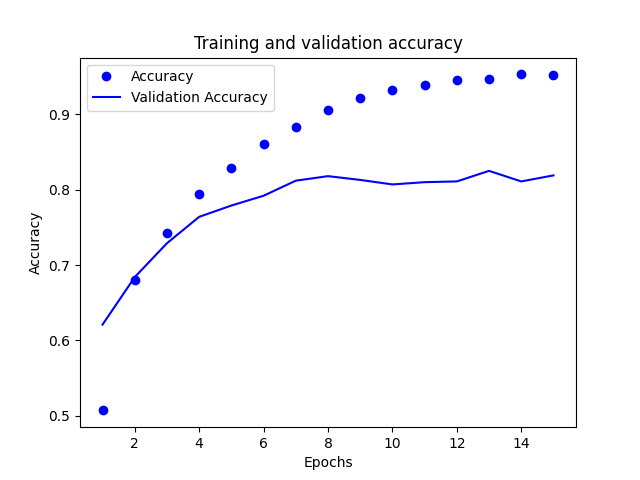
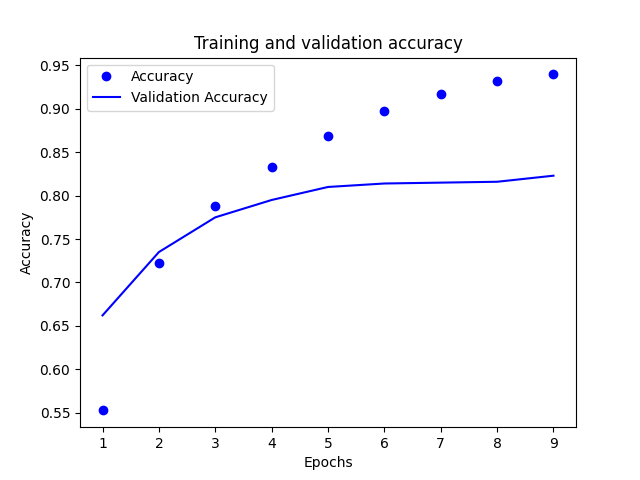
Init house predictor model

diff --git a/newswire_topic_classifier.py b/newswire_topic_classifier.py
@@ -35,7 +35,7 @@ vectorized_test_labels = to_categorical(test_labels)
 
 # Model definition
 model = keras.Sequential([
-    layers.Dense(64, activation="relu"),
+    layers.Dense(128, activation="tanh"),
     layers.Dense(64, activation="relu"),
     layers.Dense(46, activation="softmax")
 ])
@@ -59,10 +59,9 @@ partial_train_labels = vectorized_train_labels[1000:]
 train_history = model.fit(
     partial_train_data,
     partial_train_labels,
-    epochs=15,
+    epochs=9,
     batch_size=512,
-    validation_data=(validation_train_data, validation_train_labels
-    )
+    validation_data=(validation_train_data, validation_train_labels)
 )
 
 train_history_dict = train_history.history

diff --git a/house_price_predictor.py b/house_price_predictor.py
@@ -1,0 +1,22 @@
+from tensorflow.keras.datasets import boston_housing
+
+# Handling the data points
+def _z_score_normalization(dataset):
+    mean = dataset.mean(axis=0)    
+
+    dataset -= mean
+
+    standard_deviation = dataset.std(axis=0)
+
+    dataset /= standard_deviation
+
+    return dataset
+
+(train_data, train_targets), (test_data, test_targets) = (boston_housing.load_data())
+
+train_data = _z_score_normalization(train_data)
+
+test_data = _z_score_normalization(test_data)
+
+# Handling the neural network definitions
+
